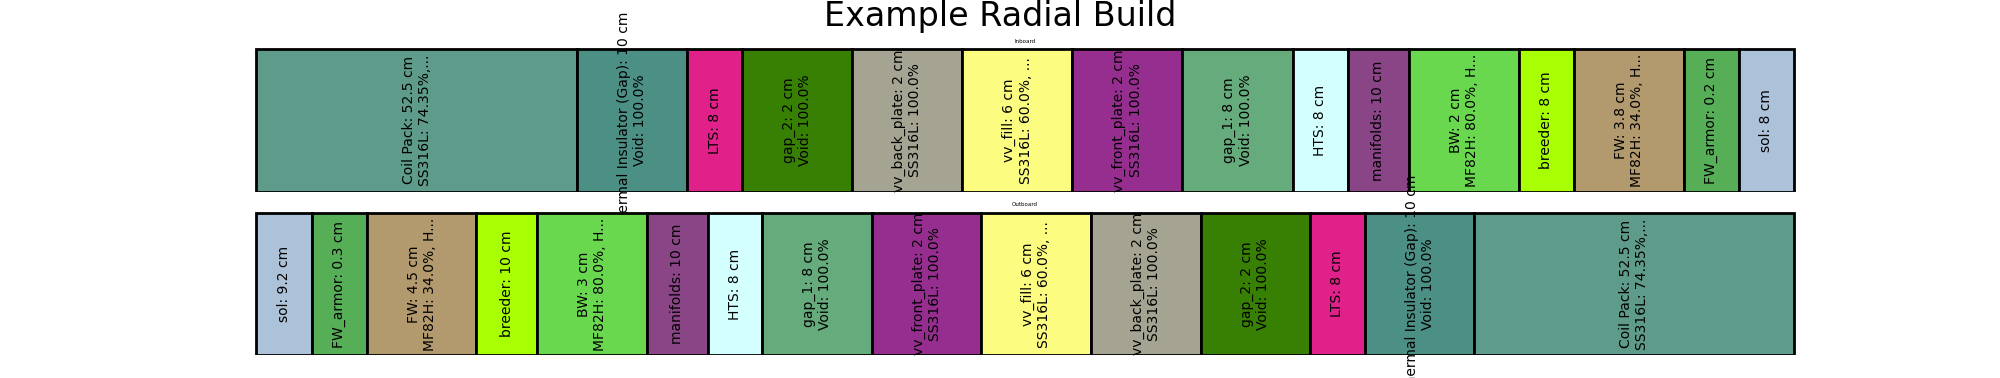
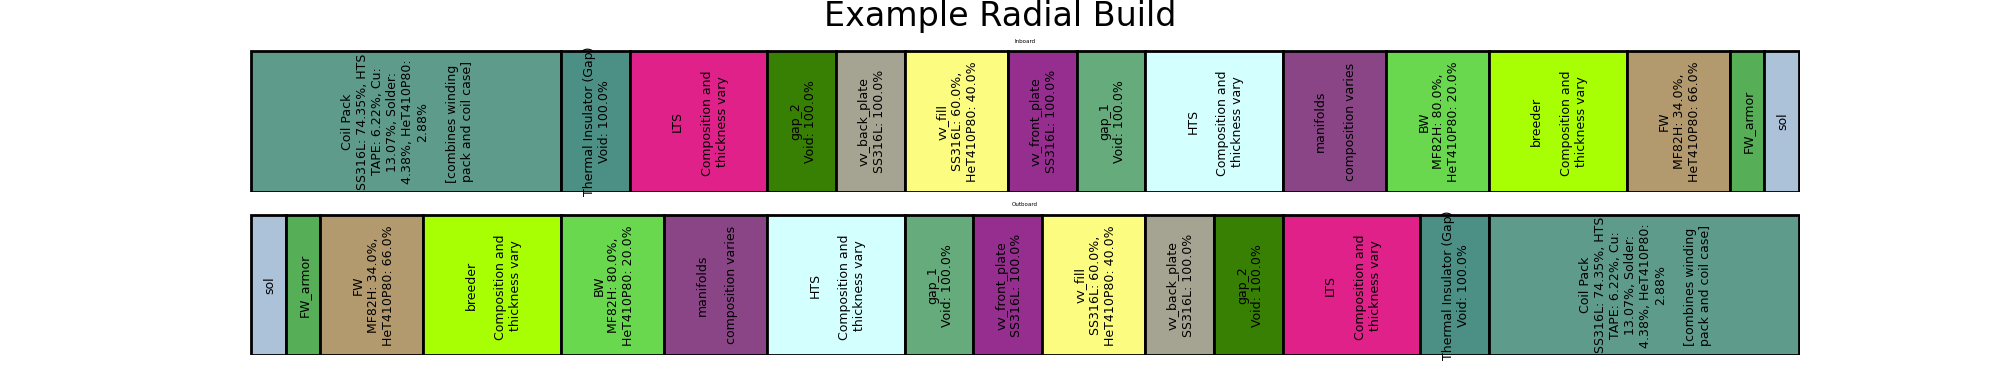
global expand_ib_ob function and fomatting fix

diff --git a/radial_build_tools.py b/radial_build_tools.py
@@ -12,6 +12,33 @@ import openmc
 import textwrap
 import random
 
+def expand_ib_ob(build):
+    """
+    Read a radial build dictionary and populate members "inboard" and "outboard"
+    based on the values of the "thickness" member
+    parameters
+    build : dictionary formatted as a valid radial build
+
+    returns
+    =========
+    build : the same dictionary that now contains members "inboard" and "outboard"
+    """
+    for layer in build.values():
+
+        if "thickness" not in layer:
+            continue
+
+        thickness = layer["thickness"]
+
+        if isinstance(thickness, (tuple, list)):
+            layer["inboard"] = thickness[0]
+            layer["outboard"] = thickness[1]
+        else:
+            layer["inboard"] = thickness
+            layer["outboard"] = thickness
+
+    return build
+
 
 class RadialBuildPlot(object):
     """
@@ -45,8 +72,9 @@ class RadialBuildPlot(object):
 
     def __init__(self, build, **kwargs):
         self.build = build
+        expand_ib_ob(self.build)
         self.title = "radial_build"
-        self.max_characters = 35
+        self.max_characters = 20
         self.max_thickness = 1e6
         self.size = (8, 4)
         self.unit = "cm"
@@ -59,10 +87,13 @@ class RadialBuildPlot(object):
             "unit",
         ):
             self.__setattr__(name, kwargs[name])
+        
 
         self.used_colors = set()
         self.available_colors = set(matplotlib.colors.XKCD_COLORS.values())
         self.colors = self.assign_colors()
+
+        self.width_scale = 5
 
     def assign_colors(self):
         """
@@ -123,10 +154,12 @@ class RadialBuildPlot(object):
         mat_strings = [
             f"{mat}: {round(frac*100,3)}%" for mat, frac in composition.items()
         ]
+        comp_text = ", ".join(mat_strings)
 
-        comp_string = (
-            textwrap.fill(", ".join(mat_strings), width=self.max_characters) + "\n"
-        )
+        comp_string = textwrap.fill(
+            comp_text,
+            width=self.max_characters,
+        ) + "\n"
 
         return comp_string
 
@@ -147,7 +180,7 @@ class RadialBuildPlot(object):
         with open(filename, "w") as file:
             yaml.safe_dump(data_dict, file, default_flow_style=False, sort_keys=False)
 
-    def get_layer_string(self, name, layer):
+    def get_layer_string(self, name, layer,side=None):
         """
         Processes a layer in the radial build dict to get formatted text for
         the plot
@@ -156,37 +189,51 @@ class RadialBuildPlot(object):
             text (str): formatted text for layer
             visual_thickness (float): width of the rectangle for the layer
         """
-        min_line_height = 9
+        min_line_height = 5
         visual_thickness = min_line_height
 
         thickness_str = ""
         if "thickness" in layer:
+            thickness = layer[side]
+            if side == "inboard":
+                thickness = layer["inboard"]
+        else:
+            thickness = layer["outboard"]
+
             thickness_str = f': {layer["thickness"]} {self.unit}'
-            visual_thickness = layer["thickness"]
+            visual_thickness = thickness
 
         comp_string = ""
         if "composition" in layer:
             comp_string = self.build_composition_string(layer["composition"])
-            if len(comp_string) > 18:
-                comp_string = comp_string[:15] + "..."
+        
+        description_str = ""
+        if "description" in layer:
+            description_str = textwrap.fill(
+                f'{layer["description"]}',
+                self.max_characters,
+                drop_whitespace=False,
+                )
 
-        text = f"{name}{thickness_str}\n{comp_string}".rstrip()
+
+        text = f"{name}{thickness_str}\n{comp_string}\n{description_str}".rstrip()
 
         newlines = text.count("\n")
 
         min_thickness = (newlines + 1) * min_line_height
-
-        visual_thickness = min(max(visual_thickness, min_thickness), self.max_thickness)
+        
+        visual_thickness = min(max(visual_thickness, min_thickness), self.max_thickness) * self.width_scale
 
         return text, visual_thickness
 
+   
     def plot_side(self, ax, side, reverse=False):
         """
         Plot either the inboard or outboard radial build.
         """
 
         char_to_height = 1.15
-        height = char_to_height * self.max_characters *0.8
+        height = char_to_height * self.max_characters
 
         ll = [0, 0]
         ax.set_ylim(0, height + 1)
@@ -201,33 +248,19 @@ class RadialBuildPlot(object):
             colors.reverse()
 
         for (name, layer), color in zip(layers, colors):
-
-            thickness = layer["thickness"]
-
-            if isinstance(thickness, (list, tuple)):
-                if side == "inboard":
-                    thickness = thickness[0]
-                else:
-                    thickness = thickness[1]
+            thickness=layer[side]
             if thickness == 0:
                 continue
 
-            old = layer["thickness"]
-            layer["thickness"] = thickness
-
-            layer_str, visual_thickness = self.get_layer_string(name, layer)
-
-            layer["thickness"] = old
-
-            ax.add_patch(
-                Rectangle(
-                    ll,
-                    visual_thickness,
-                    height,
-                    facecolor=color,
-                    edgecolor="black",
-                )
+            layer_str, visual_thickness = self.get_layer_string(
+            name,
+            layer,
+            side,
             )
+
+            if visual_thickness == 0:
+                continue
+            
             rect = Rectangle(
                             ll,
                             visual_thickness,
@@ -235,9 +268,9 @@ class RadialBuildPlot(object):
                             facecolor=color,
                             edgecolor="black",
             )
+            ax.add_patch(rect)
 
-
-            centerx = ll[0] + visual_thickness / 2 
+            centerx = ll[0] + visual_thickness / 2 +1
             centery = height / 2
             # fontsize = max(5, min(9, visual_thickness / 2))
             text = ax.text(
@@ -247,7 +280,7 @@ class RadialBuildPlot(object):
                     rotation="vertical",
                     ha="center",
                     va="center",
-                    fontsize=5,
+                    fontsize=4.5,
             )
             text.set_clip_path(rect)
 
@@ -370,24 +403,8 @@ class ToroidalModel(object):
 
         self.assign_materials()
 
-        self.expand_ib_ob()
+        expand_ib_ob(self.build)
 
-    def expand_ib_ob():
-        """
-        Ensure that every layer has both an inboard and outboard thickness
-        by duplicating single values.
-        """
-
-        for _, layer_data in self.build.items():
-            if "thickness" in layer_data:
-                thickness = layer_data["thickness"]
-
-                if isinstance(thickness, (tuple, list)):
-                    layer_data["inboard"] = thickness[0]
-                    layer_data["outboard"] = thickness[1]
-                else:
-                    layer_data["inboard"] = thickness
-                    layer_data["outboard"] = thickness
 
     def assign_materials(self):
         """